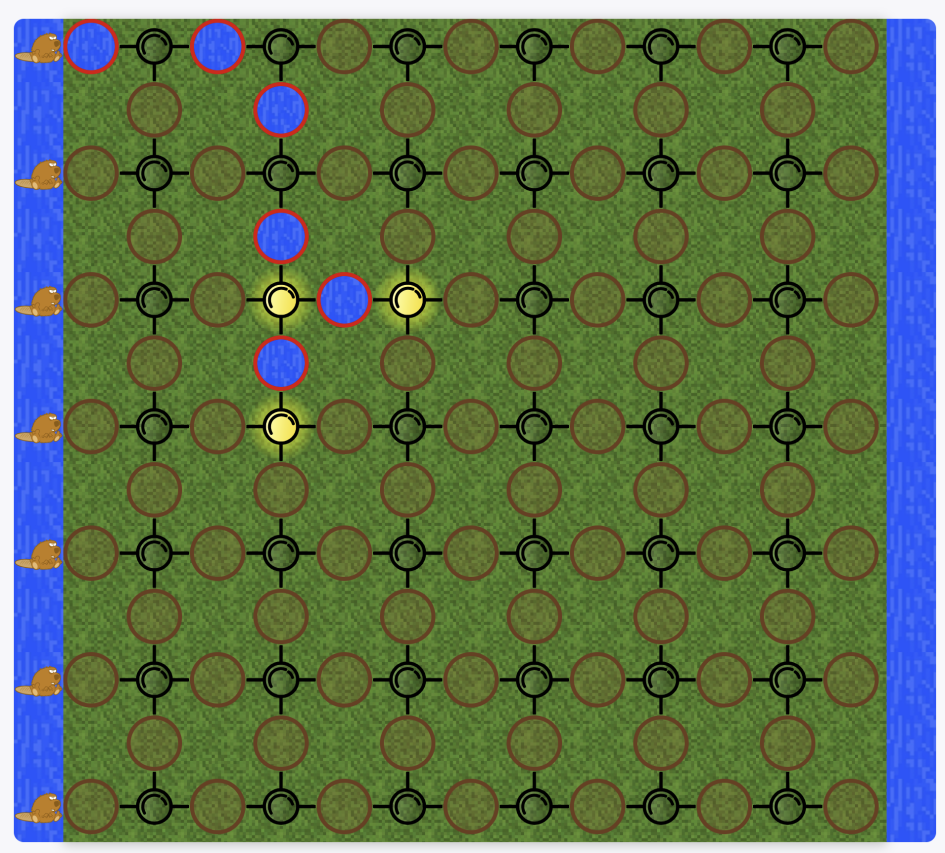
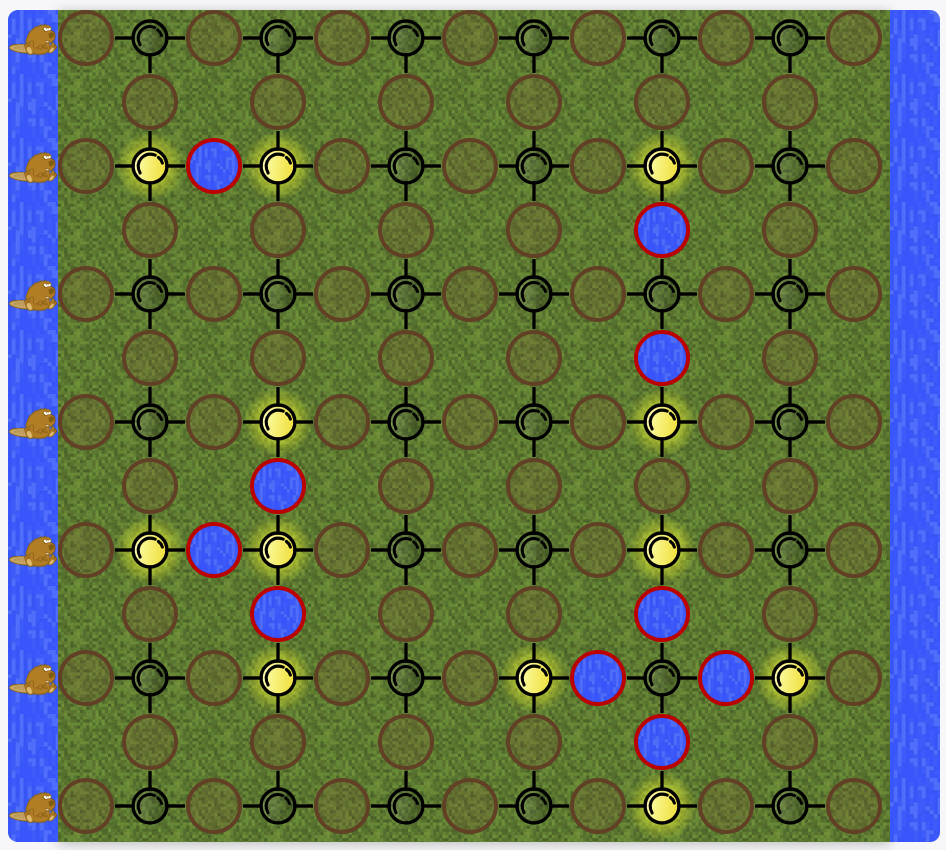
Update Tutorial

diff --git a/static/js/i18n.js b/static/js/i18n.js
@@ -50,12 +50,17 @@
       'tutorial.prev': 'Zurück',
       'tutorial.next': 'Weiter',
       'tutorial.slides': [
-        '<b>Willkommen bei Fehler-Whack!</b><br><br>Dies ist ein Spiel zur Quantenfehlerkorrektur. Dein Ziel ist es, Fehler in einem Gitter von Qubits zu finden und zu korrigieren.<br><img src=\'static/tutorial_1.png\' style=\'width:80%;margin-top:12px;\'>',
-        'In jeder Runde haben einige Qubits Fehler. Benutze deine Schaufel, um Qubits zu flippen und versuche, alle Sensoren auszuschalten.<br><img src=\'static/tutorial_2.png\' style=\'width:80%;margin-top:12px;\'>',
-        'Sensoren zeigen an, ob sich Fehler in der Nähe befinden. Wenn alle Sensoren aus sind, hast du alle detektierbaren Fehler entfernt.<br><img src=\'static/tutorial_3.png\' style=\'width:80%;margin-top:12px;\'>',
-        'Aber Vorsicht! Wenn du alle Syndrome entfernst, aber ein logischer Fehler bleibt, verlierst du die Runde.<br><b>Logischer Fehler:</b> Ein Fehler, der von den Sensoren nicht erkannt wird und die kodierte Information verändert.<br><img src=\'static/tutorial_4.png\' style=\'width:80%;margin-top:12px;\'>',
-        'Im Spielplatz-Modus kannst du Fehler manuell setzen und die Auswirkungen direkt beobachten.<br><img src=\'static/tutorial_5.png\' style=\'width:80%;margin-top:12px;\'>',
-        'Versuche, alle Fehler zu beseitigen, ohne einen logischen Fehler zu verursachen. Steige durch die Level für mehr Herausforderung!<br>Viel Erfolg!<br><img src=\'static/tutorial_6.png\' style=\'width:80%;margin-top:12px;\'>'
+        '<b>Willkommen bei Whack-an-Error!</b><br><br>Dies ist ein Spiel zur Quantenfehlerkorrektur. Dein Ziel ist es, Tunnel Fehler in einem Gitter von Qubits zu finden und zu zuzuschütten(korrigieren).<br>Die Biber vom Jülicher See wollen nämlich auf die andere Seite.<br><img src=\'static/tutorial_1.png\' style=\'width:80%;margin-top:12px;\'>',
+        'In jeder Runde Graben die Biber einige Tunnel. Ein Tunnel aktiviert seine benachbarten Sensoren.<br><img src=\'static/tutorial_2.png\' style=\'width:80%;margin-top:12px;\'>',
+        'Grenzt ein Sensor an 1 oder 3 Tunnel, ist er aktiviert.<br>Grenzt ein Sensor an 0, 2 oder 4 Tunnel, ist er deaktiviert.<br><img src=\'static/tutorial_3.png\' style=\'width:80%;margin-top:12px;\'>',
+        'Im Spiel kannst du die Tunnel von der Oberfläche aber natürlich nicht sehen.<br><img src=\'static/tutorial_4.png\' style=\'width:80%;margin-top:12px;\'>',
+        'Markiere solange Felder zur Korrektur (Tunnel graben oder zuschütten).<br><img src=\'static/tutorial_5.png\' style=\'width:80%;margin-top:12px;\'>',
+        'Markiere solange Felder zur Korrektur (Tunnel graben oder zuschütten).<br><img src=\'static/tutorial_6.png\' style=\'width:80%;margin-top:12px;\'>',
+        'Bis alle Sensoren aus sind.<br><img src=\'static/tutorial_7.png\' style=\'width:80%;margin-top:12px;\'>',
+        'Es gibt mehrere Wege zum Ziel!  Nimm am Besten den kürzesten!<br><br>Eine Schleife von Tunneln wie hier ist kein Problem.<br><img src=\'static/tutorial_8.png\' style=\'width:80%;margin-top:12px;\'>',
+        'Nur wenn die Biber am Ende von der einen zur anderen Seite können, hast du verloren - ein logischer Fehler!<br><b>Logischer Fehler:</b> Eine durchgehender Tunnel, der von den Sensoren nicht erkannt wird und die Biber auf die andere Seite lässt.<br><img src=\'static/tutorial_9.png\' style=\'width:80%;margin-top:12px;\'>',
+        'Im Spielplatz-Modus kannst du Fehler manuell setzen und die Auswirkungen direkt beobachten.<br><img src=\'static/tutorial_10.png\' style=\'width:80%;margin-top:12px;\'>',
+        'Versuche, alle Fehler zu beseitigen, ohne einen logischen Fehler zu verursachen. Steige durch die Level für mehr Herausforderung!<br>Viel Erfolg!'
       ]
     },
     en: {
@@ -107,13 +112,18 @@
       'tutorial.prev': 'Back',
       'tutorial.next': 'Next',
       'tutorial.slides': [
-        "<b>Welcome to Whack-an-Error!</b><br><br>This is a game about quantum error correction. Your goal is to find and correct errors in a lattice of qubits.<br><img src='static/tutorial_1.png' style='width:80%;margin-top:12px;'>",
-        "Each round, some qubits have errors. Use your shovel to flip qubits and try to turn all sensors off.<br><img src='static/tutorial_2.png' style='width:80%;margin-top:12px;'>",
-        "Sensors indicate whether there are errors nearby. If all sensors are off, you've removed all detectable errors.<br><img src='static/tutorial_3.png' style='width:80%;margin-top:12px;'>",
-        "Beware! If you remove all syndromes but a logical error remains, you lose the round.<br><b>Logical error:</b> an error undetected by the sensors that changes the encoded information.<br><img src='static/tutorial_4.png' style='width:80%;margin-top:12px;'>",
-        "In playground mode, you can set errors manually and observe the effects directly.<br><img src='static/tutorial_5.png' style='width:80%;margin-top:12px;'>",
-        "Try to eliminate all errors without causing a logical one. Advance through levels for more challenge!<br>Good luck!<br><img src='static/tutorial_6.png' style='width:80%;margin-top:12px;'>"
-      ]
+                        '<b>Welcome to Whack-an-Error!</b><br><br>This is a game about quantum error correction. Your goal is to find and fill (correct) tunnel errors in a grid of qubits.<br>The beavers from Jülicher See want to get to the other side.<br><img src=\'static/tutorial_1.png\' style=\'width:80%;margin-top:12px;\'>',
+                        'In each round, the beavers dig some tunnels. A tunnel activates its neighboring sensors.<br><img src=\'static/tutorial_2.png\' style=\'width:80%;margin-top:12px;\'>',
+                        'If a sensor borders 1 or 3 tunnels, it is activated.<br>If a sensor borders 0, 2 or 4 tunnels, it is deactivated.<br><img src=\'static/tutorial_3.png\' style=\'width:80%;margin-top:12px;\'>',
+                        'In the game, you cannot see the tunnels from the surface.<br><img src=\'static/tutorial_4.png\' style=\'width:80%;margin-top:12px;\'>',
+                        'Mark fields for correction (dig or fill tunnels) until all sensors are off.<br><img src=\'static/tutorial_5.png\' style=\'width:80%;margin-top:12px;\'>',
+                        'Mark fields for correction (dig or fill tunnels) until all sensors are off.<br><img src=\'static/tutorial_6.png\' style=\'width:80%;margin-top:12px;\'>',
+                        'Until all sensors are off.<br><img src=\'static/tutorial_7.png\' style=\'width:80%;margin-top:12px;\'>',
+                        'There are several ways to reach the goal! Take the shortest one!<br><br>A loop of tunnels like this is not a problem.<br><img src=\'static/tutorial_8.png\' style=\'width:80%;margin-top:12px;\'>',
+                        'Only if the beavers can get from one side to the other at the end, you lose - a logical error!<br><b>Logical error:</b> A continuous tunnel that is not detected by the sensors and lets the beavers get to the other side.<br><img src=\'static/tutorial_9.png\' style=\'width:80%;margin-top:12px;\'>',
+                        'In playground mode, you can set errors manually and directly observe the effects.<br><img src=\'static/tutorial_10.png\' style=\'width:80%;margin-top:12px;\'>',
+                        'Try to eliminate all errors without causing a logical error. Progress through the levels for more challenge!<br>Good luck!'
+                        ]
     }
   };
 
